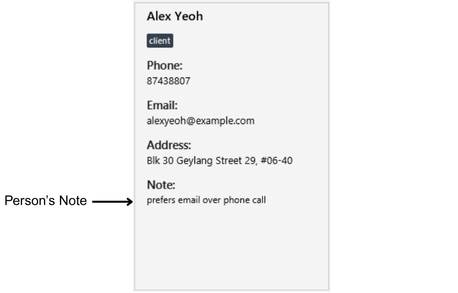
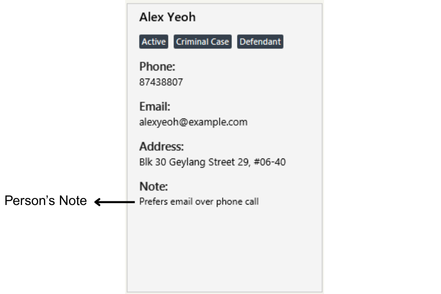
Update UG

Changed region(s): [[0.0, 0.0, 0.737, 1.0]]

diff --git a/docs/UserGuide.md b/docs/UserGuide.md
@@ -154,13 +154,13 @@ A GUI similar to the below should appear in a few seconds. Note how the app cont
   <img src="images/userinterface2.png" alt="Ui" />
 </p>
 
-3. At the contact list, you can view the name, phone number, address, email and tags of the person. When a person is pinned, the pin icon will show up.
+3. At the **contact list**, you can view the name, phone number, address, email and tags of the person. When a person is pinned, the pin icon will show up.
 
 <p align="center">
   <img src="images/userinterface3.png" alt="Ui" />
 </p>
 
-4. In addition, at the contact information card, you can view the person's note.
+4. At the **contact information card**, you can view the person's note.
 
 <p align="center">
   <img src="images/userinterface4.png" alt="Ui" />
@@ -411,7 +411,7 @@ For **sorting by one prefix**, the following commands are allowed:
 * `sort a/` sorts contacts by ascending addresses.
 * `sort t/` sorts contacts by ascending tags.
 
-For **sorting by two attributes**, the following commands are allowed:
+For **sorting by two prefixes**, the first prefix must be `t/`. The following commands are allowed:
 * `sort t/ n/` sorts contacts by tags first, followed by names.
 * `sort t/ p/` sorts contacts by tags first, followed by phone numbers.
 * `sort t/ e/` sorts contacts by tags first, followed by emails.
@@ -441,9 +441,9 @@ correct sorted order. To maintain the sorted order, you will need to run the `so
 
 * **Sorting Multiple Tags:**<br>
   It sorts the **first tag** in **alphabetical order**.<br>
-  * e.g. `t/colleagues t/friends` will sort by `colleagues` tag first and followed by `friends` tag.<br>
-  * e.g. If `t/colleagues t/friends` and `t/lawyer t/colleagues` are sorted, `t/colleagues t/friends` will appear before
-  `t/lawyer t/colleagues`, because `colleagues` tag comes first in the sorting order.
+  * `t/Criminal Case t/Defendant` will sort by `Criminal Case` tag first and followed by `Defendant` tag.<br>
+  * `t/Criminal Case t/Defendant` and `t/Plantiff t/Criminal Case` are sorted, `t/Criminal Case t/Defendant` will appear before
+  `t/Plantiff t/Criminal Case`, because `Criminal Case` tag comes first in the sorting order.
 </div>
 
 
